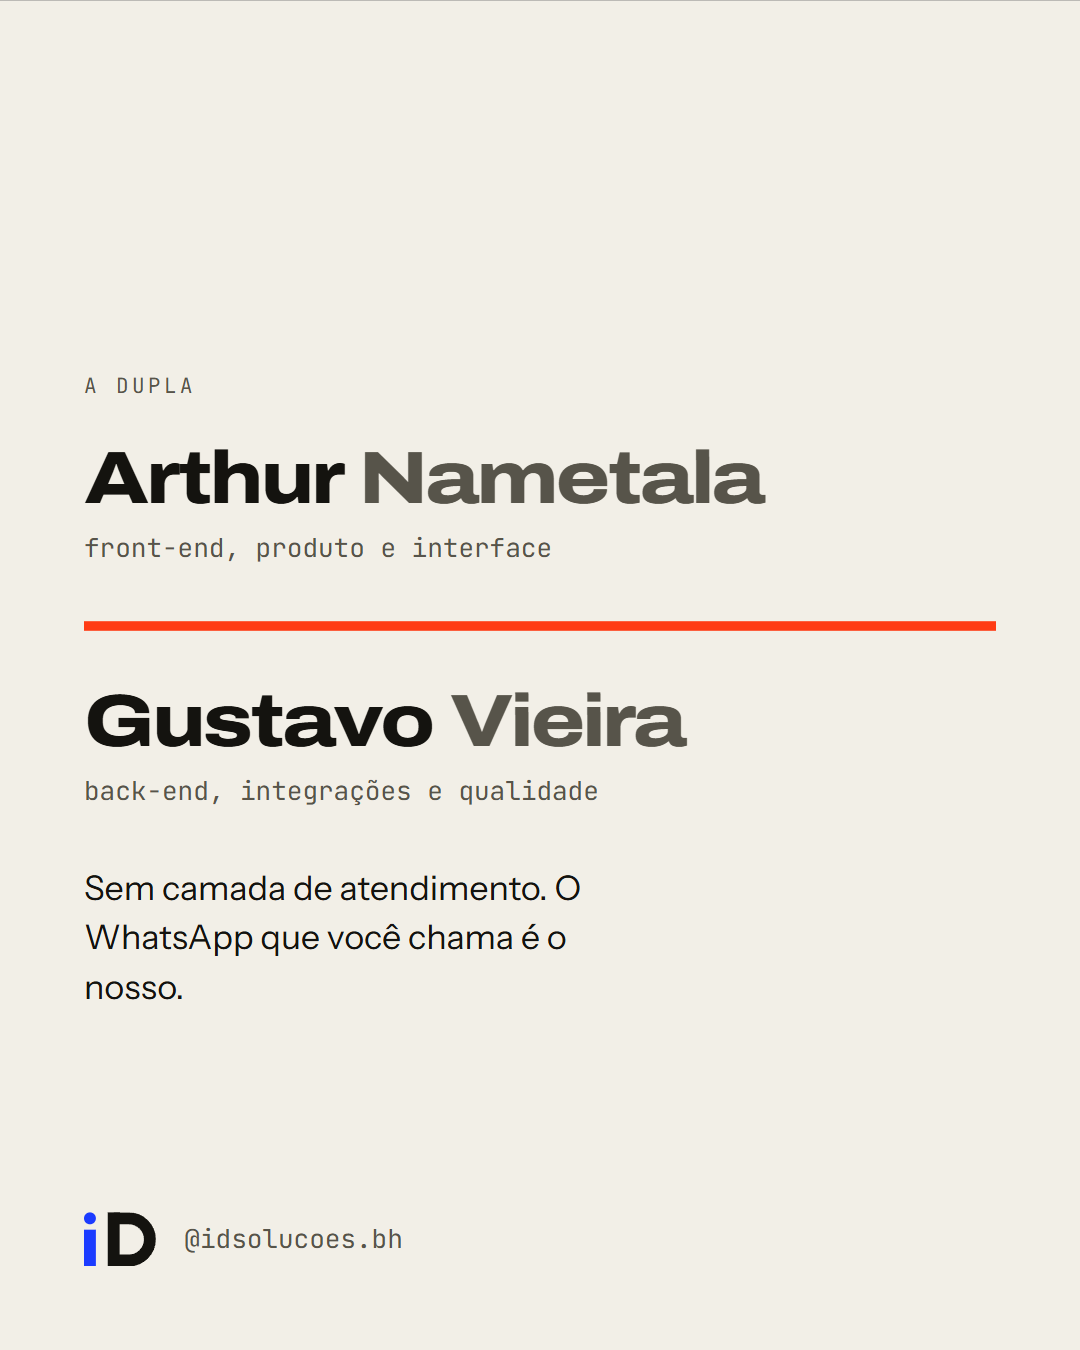
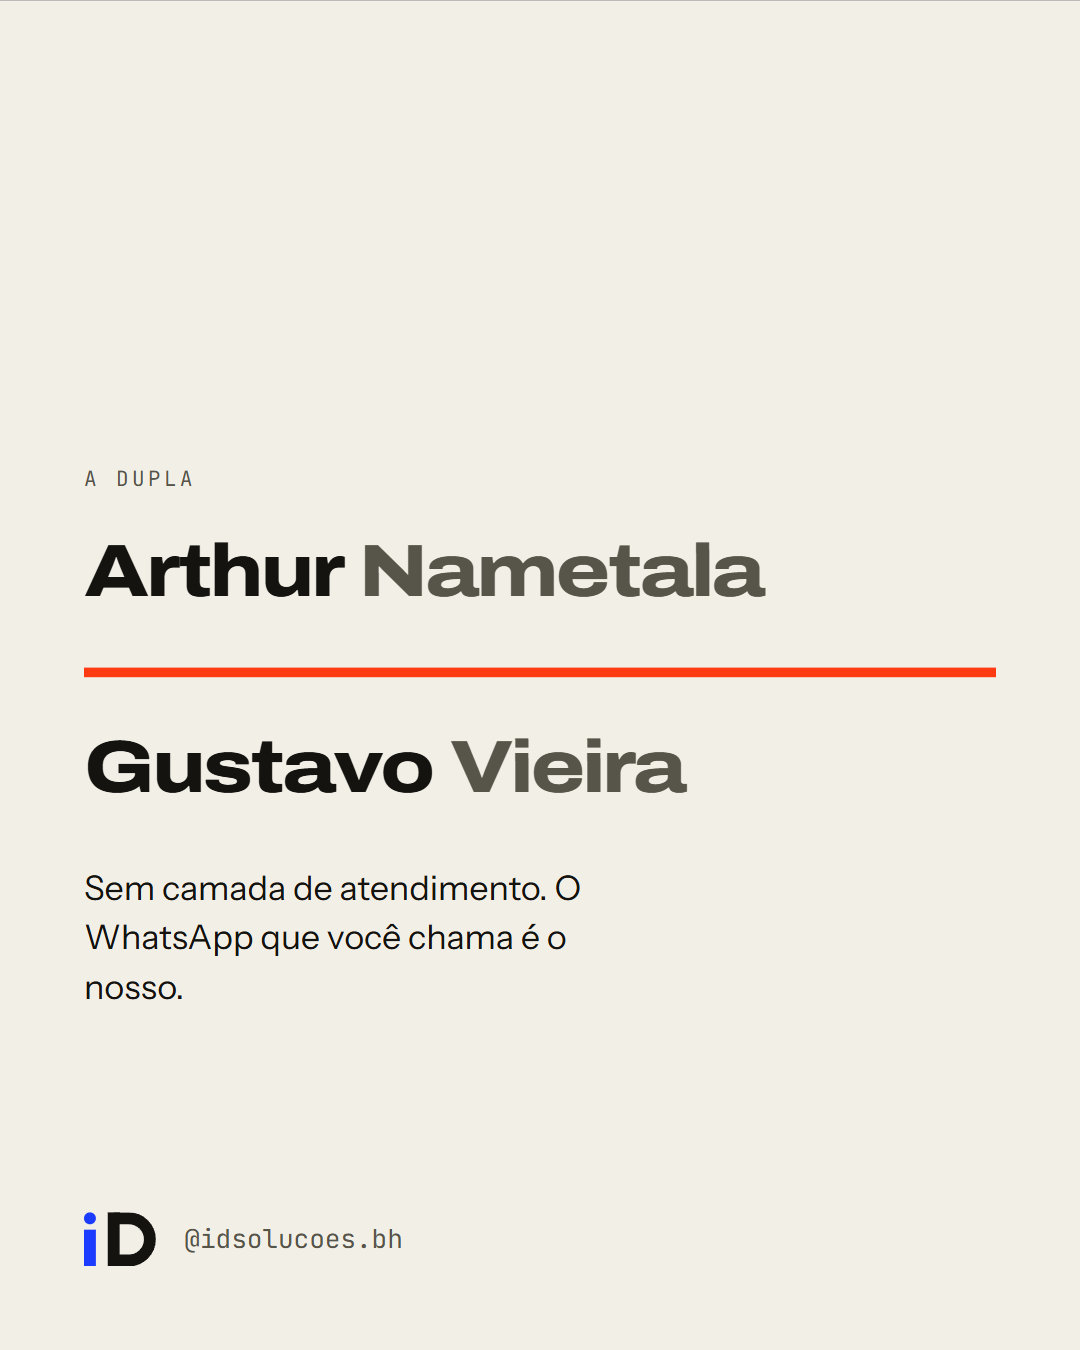
Retira a divisão de funções da dupla: estava errada
Arthur apagou o post 8 do Instagram porque a atribuição front-end/back-end
não está correta, e pediu para não repor. A origem era o guia de marca, que
agora diz só 'dois desenvolvedores', sem cargo. A arte p8-2 e o doc do
Instagram seguem o mesmo; o post fica registrado como retirado.

Changed region(s): [[0.0611, 0.4044, 0.9167, 0.5911], [0.0611, 0.3111, 0.7028, 0.3733], [0.1222, 0.28, 0.1833, 0.3111]]

diff --git a/midia/instagram/posts.html b/midia/instagram/posts.html
@@ -354,12 +354,10 @@ const slides = [
     <div class="pilha" style="gap:56px">
       <div class="pilha" style="gap:12px">
         <div class="display m">Arthur <span class="media">Nametala</span></div>
-        <p class="mono media">front-end, produto e interface</p>
       </div>
       <div class="regua" style="width:100%"></div>
       <div class="pilha" style="gap:12px">
         <div class="display m">Gustavo <span class="media">Vieira</span></div>
-        <p class="mono media">back-end, integrações e qualidade</p>
       </div>
       <p class="corpo">Sem camada de atendimento. O WhatsApp que você chama é o nosso.</p>
     </div>` },

diff --git a/docs/instagram.md b/docs/instagram.md
@@ -109,7 +109,7 @@ quem chegar depois lê a grade de baixo para cima, e ela termina no manifesto.
 | 5 | THE BL4CK GYM | `p5-1` `p5-2` | Carrossel |
 | 6 | Studio Rondas | `p6-1` `p6-2` | Carrossel |
 | 7 | VIA Drones | `p7-1` `p7-2` | Carrossel |
-| 8 | A dupla | `p8-1` `p8-2` | Carrossel |
+| ~~8~~ | ~~A dupla~~ | — | Retirado do ar em 2026-09-14. Não repor. |
 | 9 | Como funciona | `p9-1` `p9-2` `p9-3` `p9-4` | Carrossel |
 
 Tudo é carrossel de propósito: carrossel é o único formato estático em que a
@@ -231,18 +231,12 @@ O site explica a operação passo a passo, traz a ficha técnica do drone e faz 
 No ar em viadronesmarcel.vercel.app — abra e veja.
 ```
 
-### Post 8 — A dupla
+### Post 8 — A dupla (retirado)
 
-```
-Somos dois.
-
-Arthur Nametala — front-end, produto e interface.
-Gustavo Vieira — back-end, integrações e qualidade.
-
-Não há gerente de conta nem "nossa equipe entrará em contato". Você envia uma mensagem e quem responde é um de nós dois — o mesmo que vai escrever o código do seu site.
-
-É também por isso que atendemos somente Belo Horizonte: em dois, dá para fazer bem feito o que cabe. Prometer o Brasil inteiro seria uma promessa que não cumpriríamos.
-```
+Foi publicado e apagado no mesmo dia. A legenda e a arte `p8-2` atribuíam
+funções a cada um ("front-end" para o Arthur, "back-end" para o Gustavo), e a
+divisão não está correta. Arthur pediu para não repor. Se um dia voltar, é sem
+cargo: "somos dois desenvolvedores, você fala com quem escreve o código".
 
 ### Post 9 — Como funciona
 

diff --git a/docs/brand-guidelines.md b/docs/brand-guidelines.md
@@ -43,8 +43,10 @@ campanha, mas nunca substituem a leitura principal.
 
 ### Quem somos
 
-Dois desenvolvedores em Belo Horizonte: Arthur Nametala (front-end, produto e
-interface) e Gustavo Vieira (back-end, integrações e qualidade). O cliente fala
+Dois desenvolvedores em Belo Horizonte: Arthur Nametala e Gustavo Vieira. Não
+há divisão de funções declarada entre os dois — uma versão anterior deste guia
+atribuía front-end a um e back-end ao outro, estava errada e foi retirada. Em
+texto público, os dois são "dois desenvolvedores", sem cargo. O cliente fala
 direto com quem escreve o código — não existe camada de atendimento, e essa
 ausência é argumento de venda, não limitação.
 
